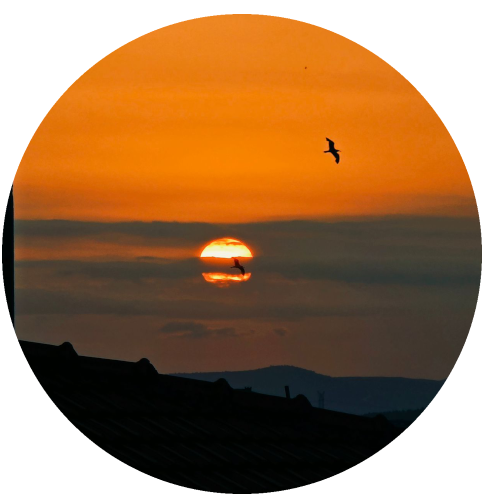
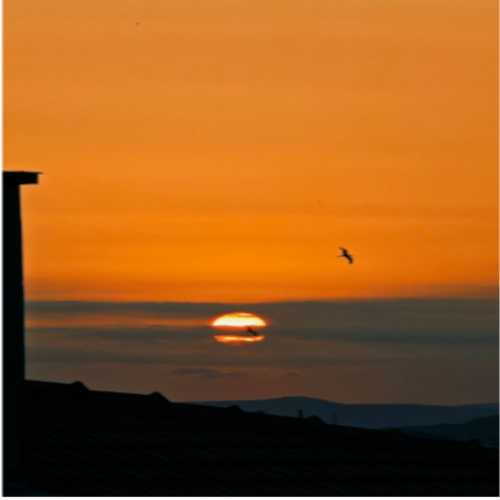
testes

diff --git a/aula12ex/ex014/script.js b/aula12ex/ex014/script.js
@@ -4,7 +4,7 @@ function carregar() {
     var imgm = window.document.getElementById('imagem') 
     //var data = new Date()
     //var hora = data.getHours()
-    var hora = 18
+    var hora = 19
     msg.innerHTML = `Agora são ${hora} horas.`
 
     if (hora >= 0 && hora < 12) {
@@ -18,7 +18,7 @@ function carregar() {
             //document.body.style.background = 
     } else {
         //Boa noite !
-        imgm.src = ''
+        imgm.src = 'fotodanoite.png'
         //document.body.style.background = 
     }
 }
